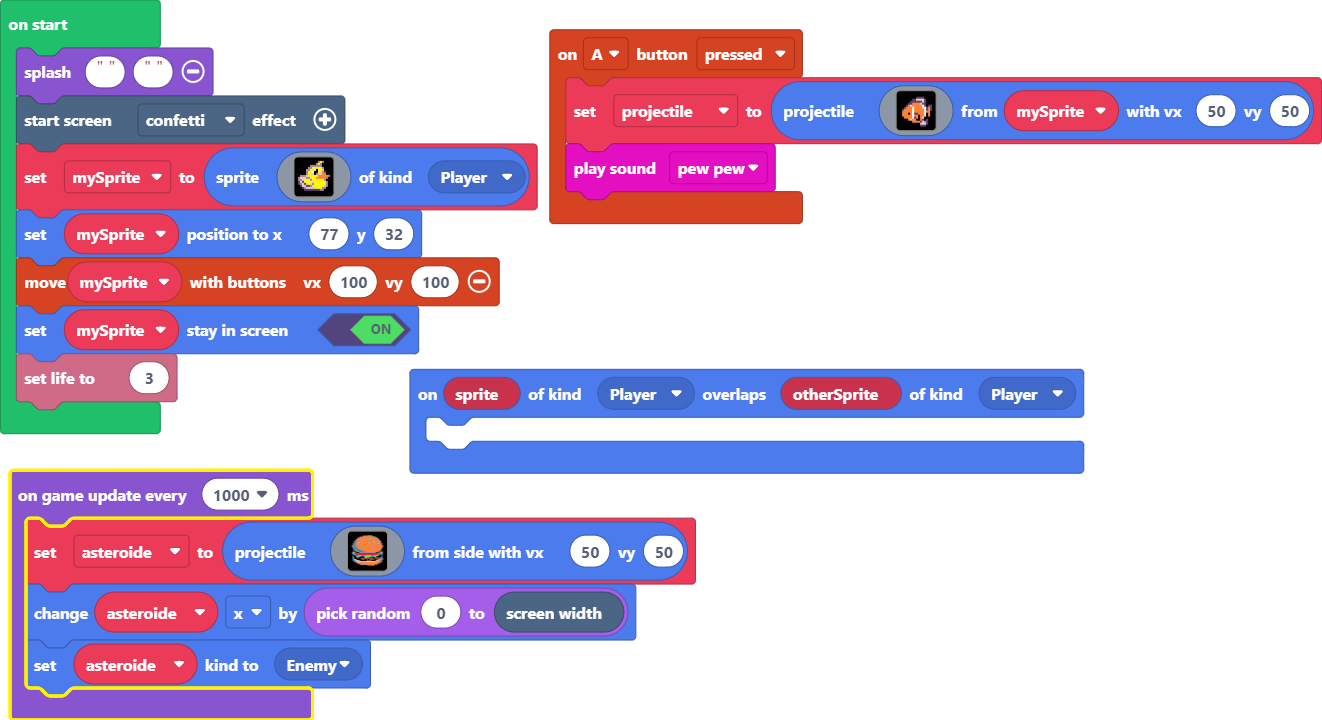
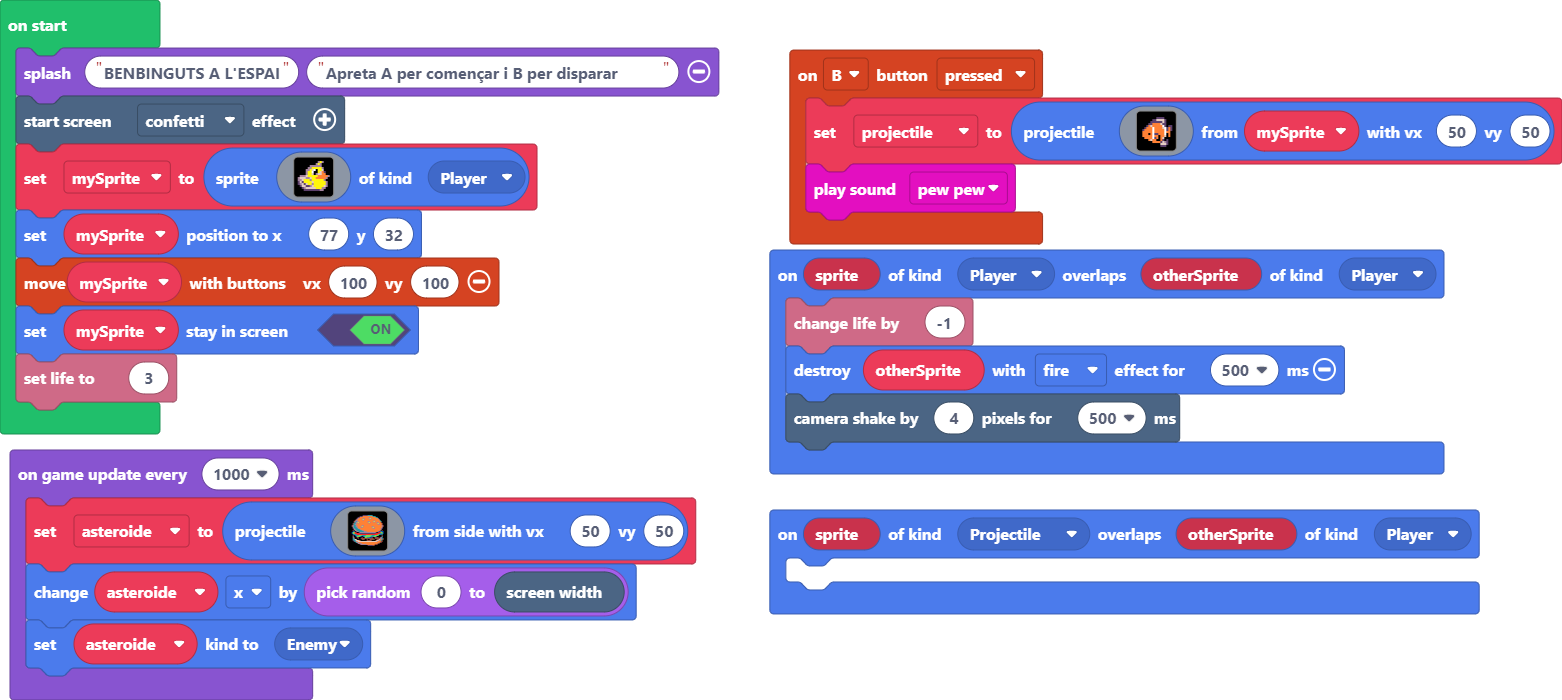
Update main.blocks, main.ts

diff --git a/main.ts b/main.ts
@@ -1,4 +1,4 @@
-controller.A.onEvent(ControllerButtonEvent.Pressed, function () {
+controller.B.onEvent(ControllerButtonEvent.Pressed, function () {
     projectile = sprites.createProjectileFromSprite(img`
         . . . . . . . . . . . . . . . . 
         . . . . . . . . c c c c . . . . 
@@ -19,13 +19,18 @@ controller.A.onEvent(ControllerButtonEvent.Pressed, function () {
         `, mySprite, 50, 50)
     music.pewPew.play()
 })
-sprites.onOverlap(SpriteKind.Player, SpriteKind.Player, function (sprite, otherSprite) {
+sprites.onOverlap(SpriteKind.Projectile, SpriteKind.Player, function (sprite, otherSprite) {
 	
+})
+sprites.onOverlap(SpriteKind.Player, SpriteKind.Player, function (sprite, otherSprite) {
+    info.changeLifeBy(-1)
+    otherSprite.destroy(effects.fire, 500)
+    scene.cameraShake(4, 500)
 })
 let asteroide: Sprite = null
 let projectile: Sprite = null
 let mySprite: Sprite = null
-game.splash("", "")
+game.splash("BENBINGUTS A L'ESPAI", "Apreta A per començar i B per disparar")
 effects.confetti.startScreenEffect()
 mySprite = sprites.create(img`
     . . . . . . . . . . b 5 b . . . 
